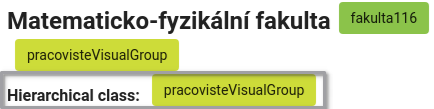
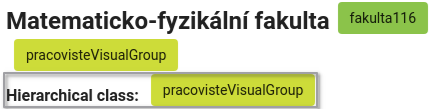
change size of figure 4

diff --git a/clustering_user_documentation.md b/clustering_user_documentation.md
@@ -81,7 +81,7 @@ An example of two visual groups "pracovisteVisualGroup" and "tema" is shown in F
 Hierarchical class if exists is shown along with the node label. See Figure 4 below for more detail.
 
 <p align="center">
-    <img src="img/hierarchical_class.png" alt="hierarchical-class" title="Hierarchical class" width="600"/><br/>
+    <img src="img/hierarchical_class.png" alt="hierarchical-class" title="Hierarchical class" width="500"/><br/>
     <em>Figure 4. Hierarchical class</em>
 </p>
 
